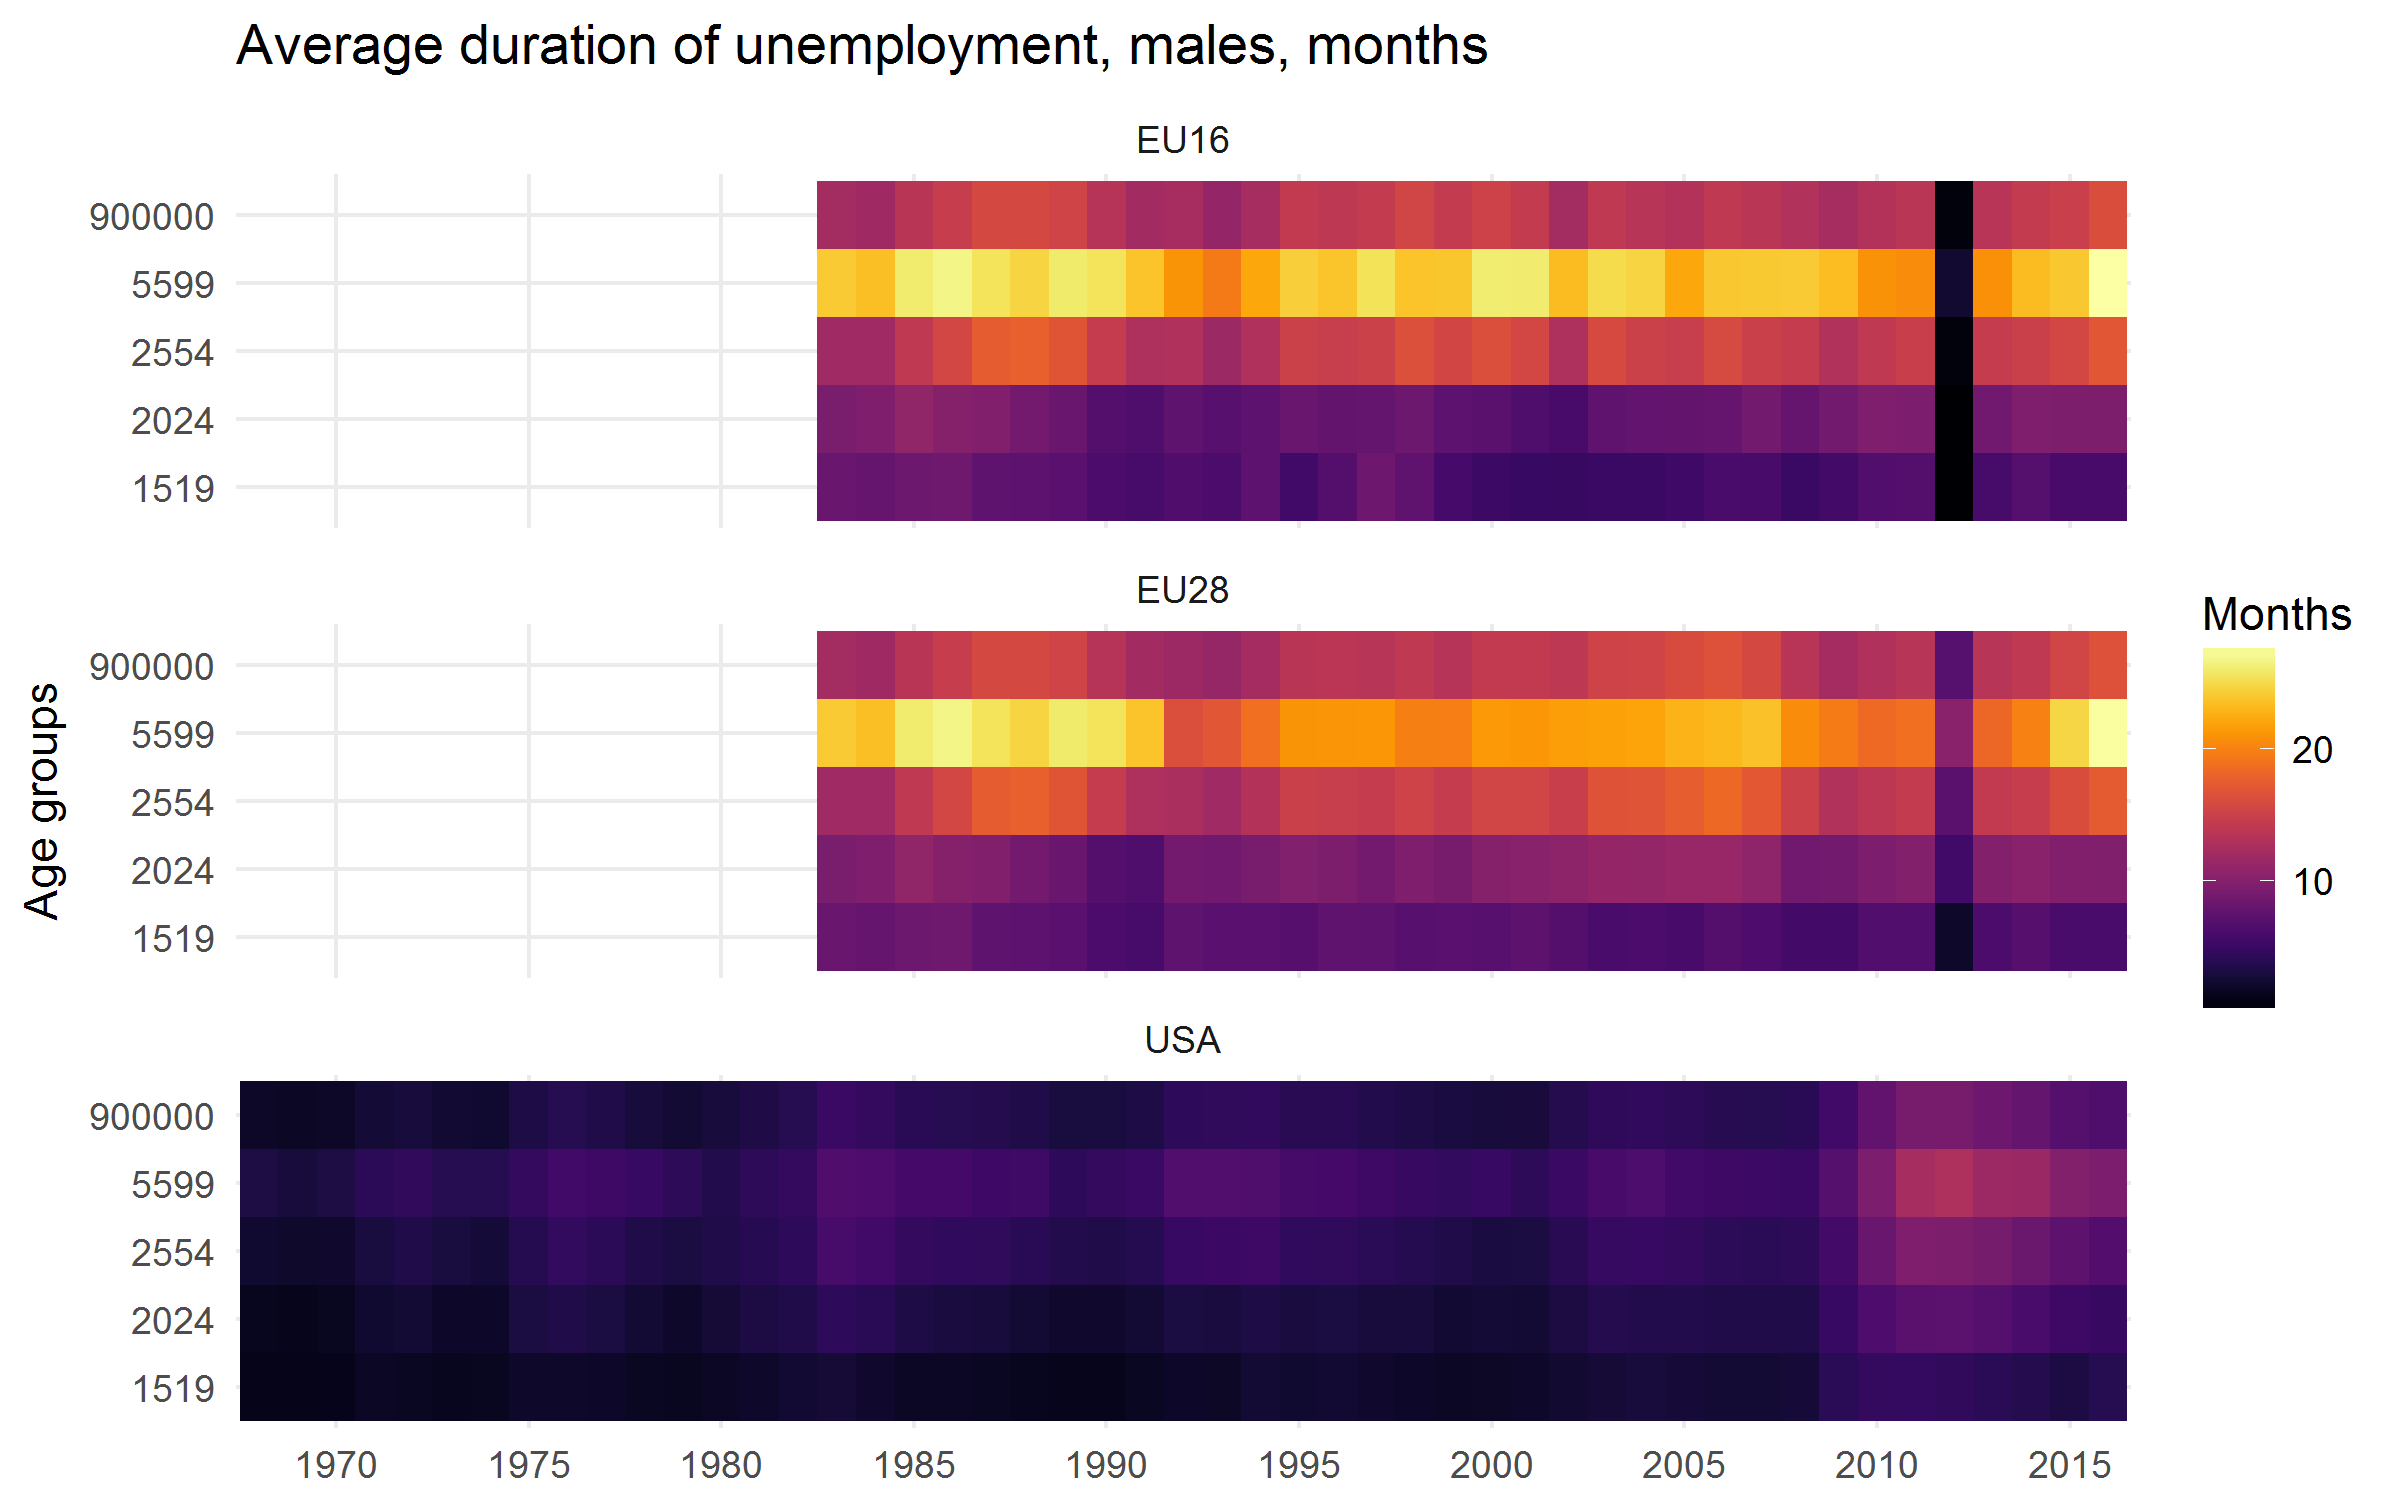
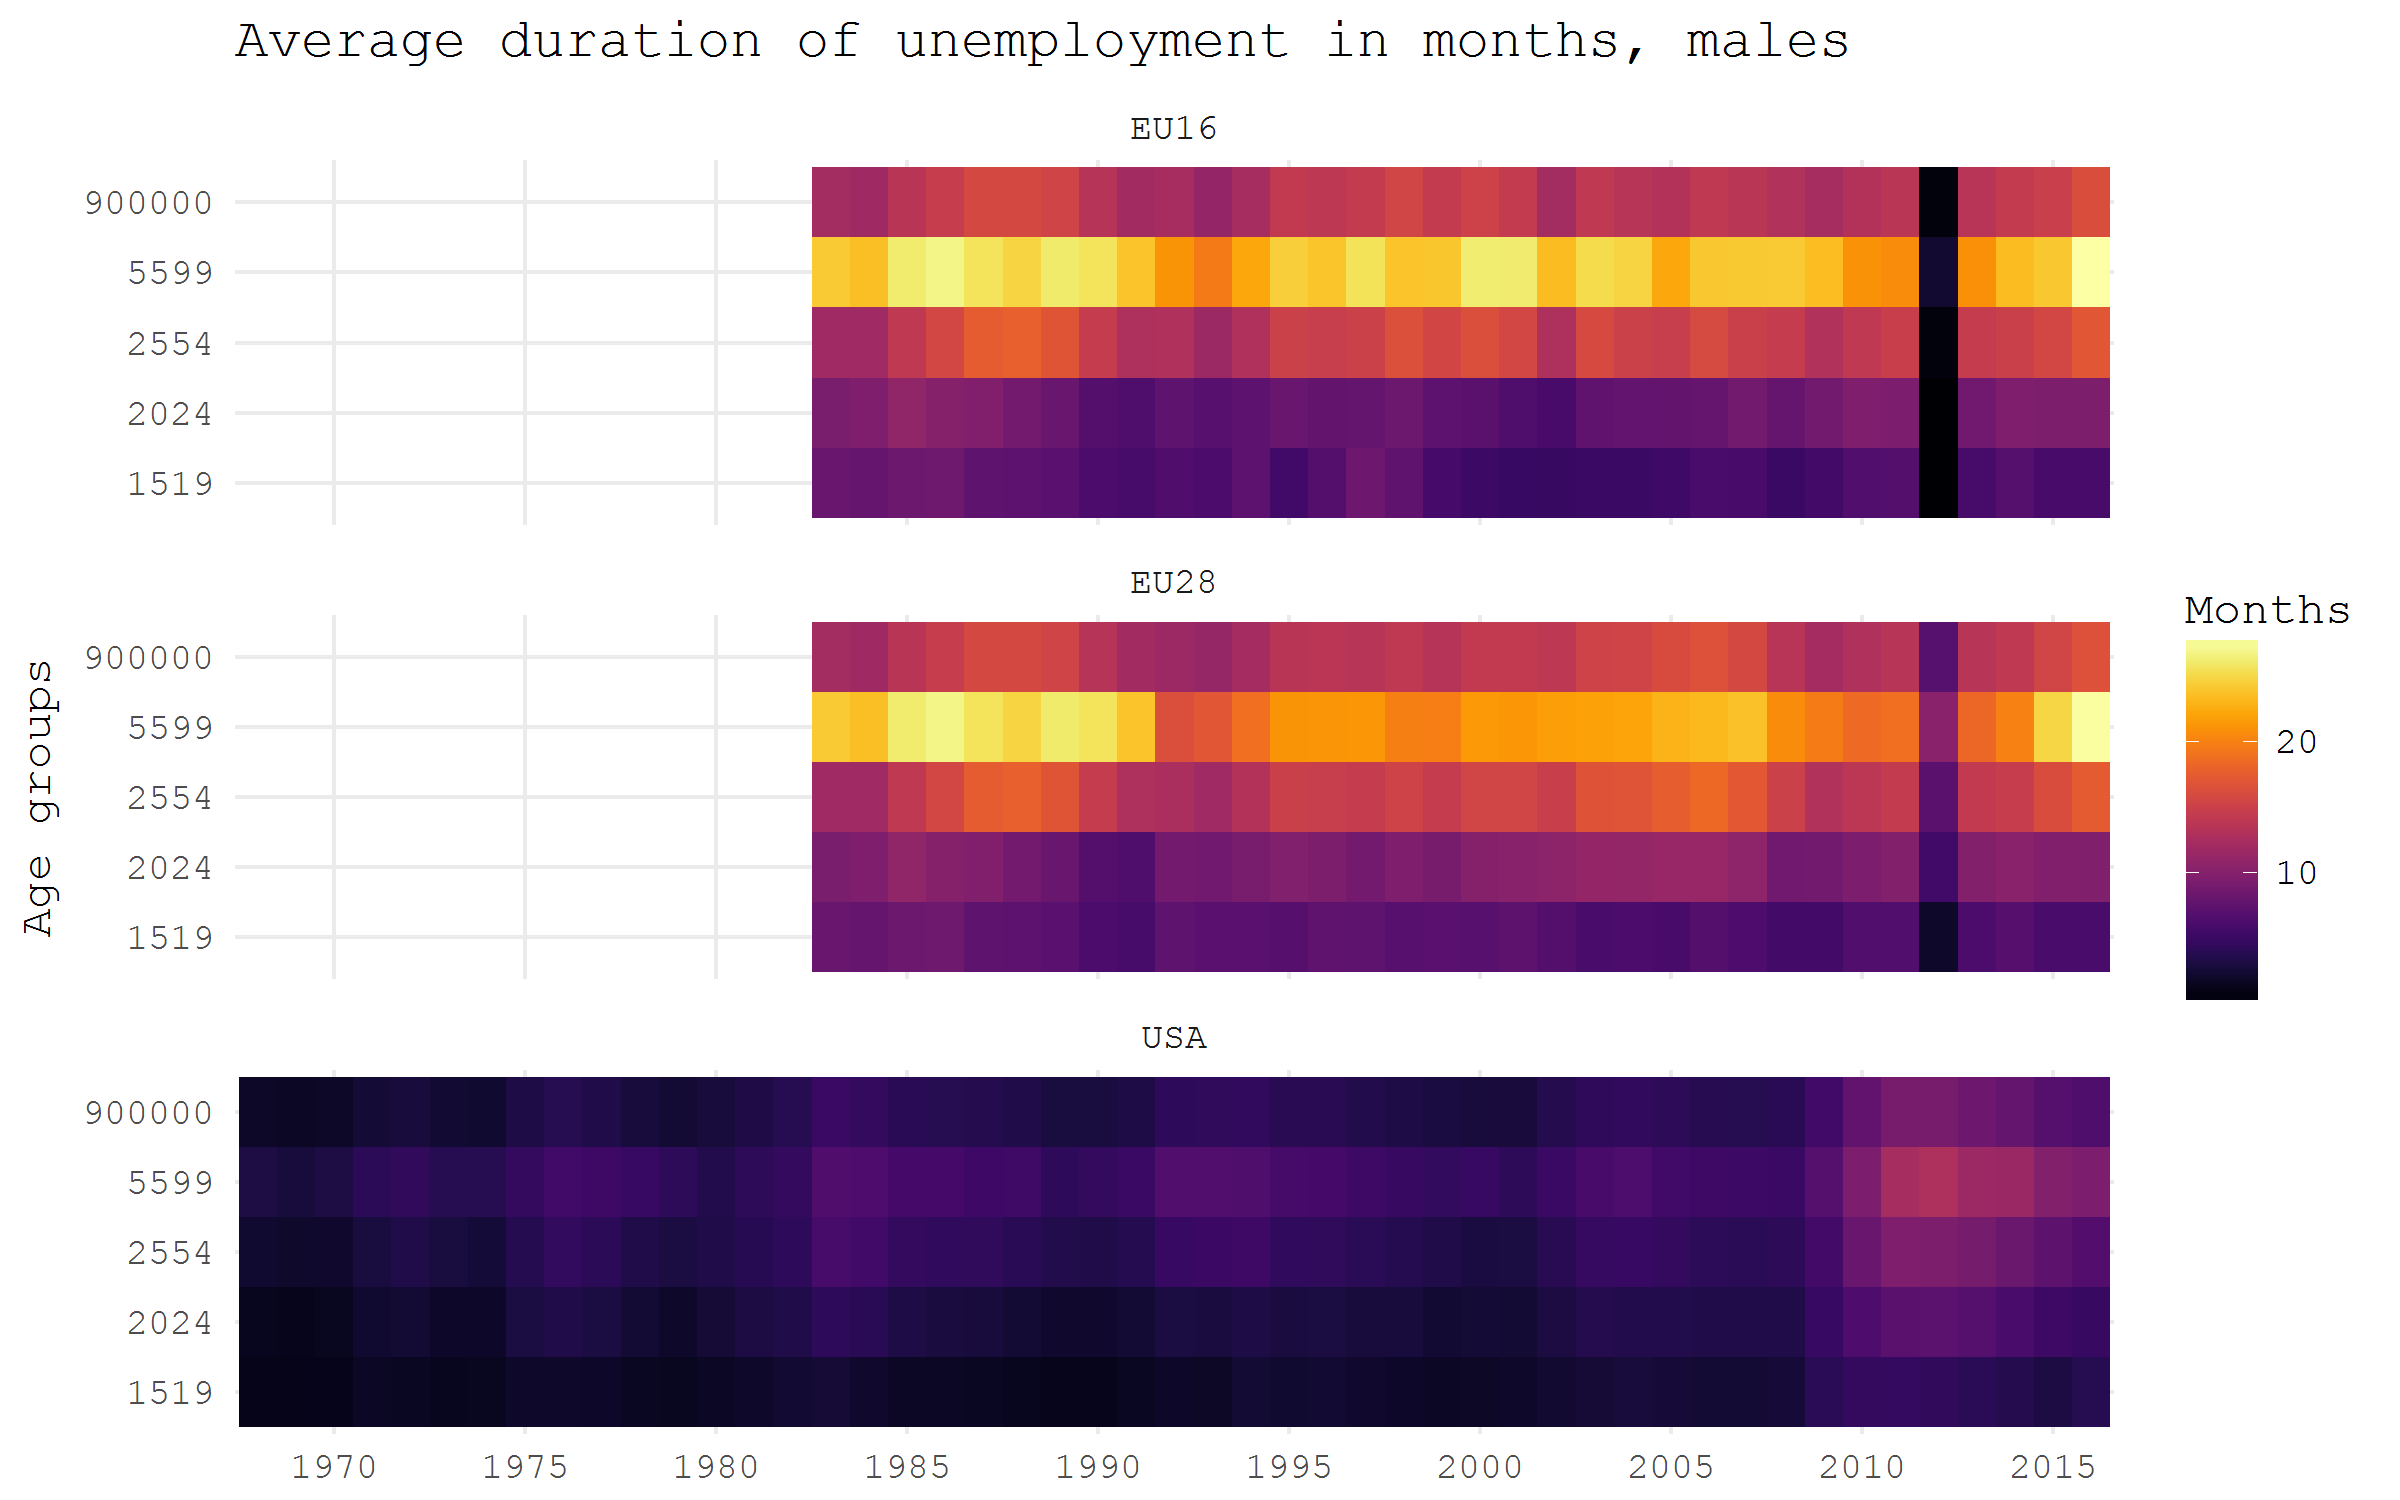
fix image font

diff --git a/_posts/2017-11-07-data-acquisition-two.md b/_posts/2017-11-07-data-acquisition-two.md
@@ -43,7 +43,7 @@ e0 %>%
         geom_path()+
         facet_wrap(~ geo, ncol = 3)+
         labs(y = "Life expectancy at age 65", x = NULL)+
-        theme_minimal()
+        theme_minimal(base_family = "mono")
 ```
 
 [![fig1][f1]][f1]  
@@ -87,7 +87,7 @@ df_wb %>%
         geom_path(size = 1)+
         scale_color_brewer(NULL, palette = "Dark2")+
         labs(x = NULL, y = NULL, title = "Lifetime risk of maternal death (%)")+
-        theme_minimal()+
+        theme_minimal(base_family = "mono")+
         theme(panel.grid.minor = element_blank(),
               legend.position = c(.8, .9))
 
@@ -123,7 +123,7 @@ df_oecd %>%
         facet_wrap(~ country, ncol = 1)+
         labs(x = NULL, y = "Age groups", 
              title = "Average duration of unemployment in months, males")+
-        theme_minimal()
+        theme_minimal(base_family = "mono")
 ```
 
 [![fig3][f3]][f3]  
@@ -164,7 +164,7 @@ df_wid %>%
         labs(title = "Top 1% and top 10% personal wealth shares in France and Great Britain",
              y = "top share")+
         facet_wrap(~ percentile)+
-        theme_minimal()
+        theme_minimal(base_family = "mono")
 
 ```
 [![fig4][f4]][f4]  
